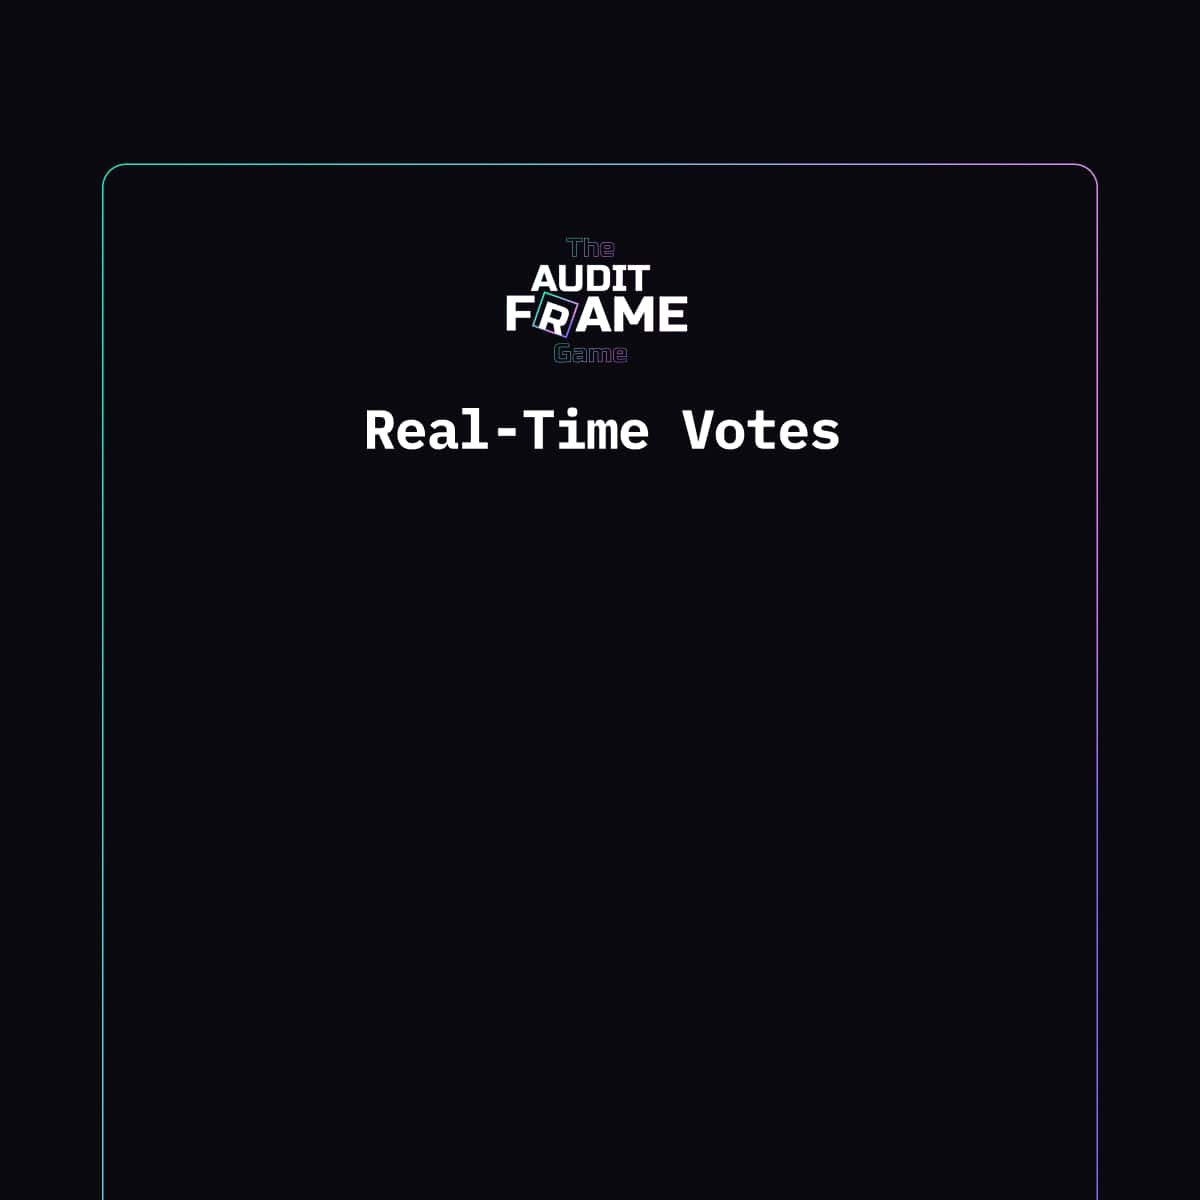
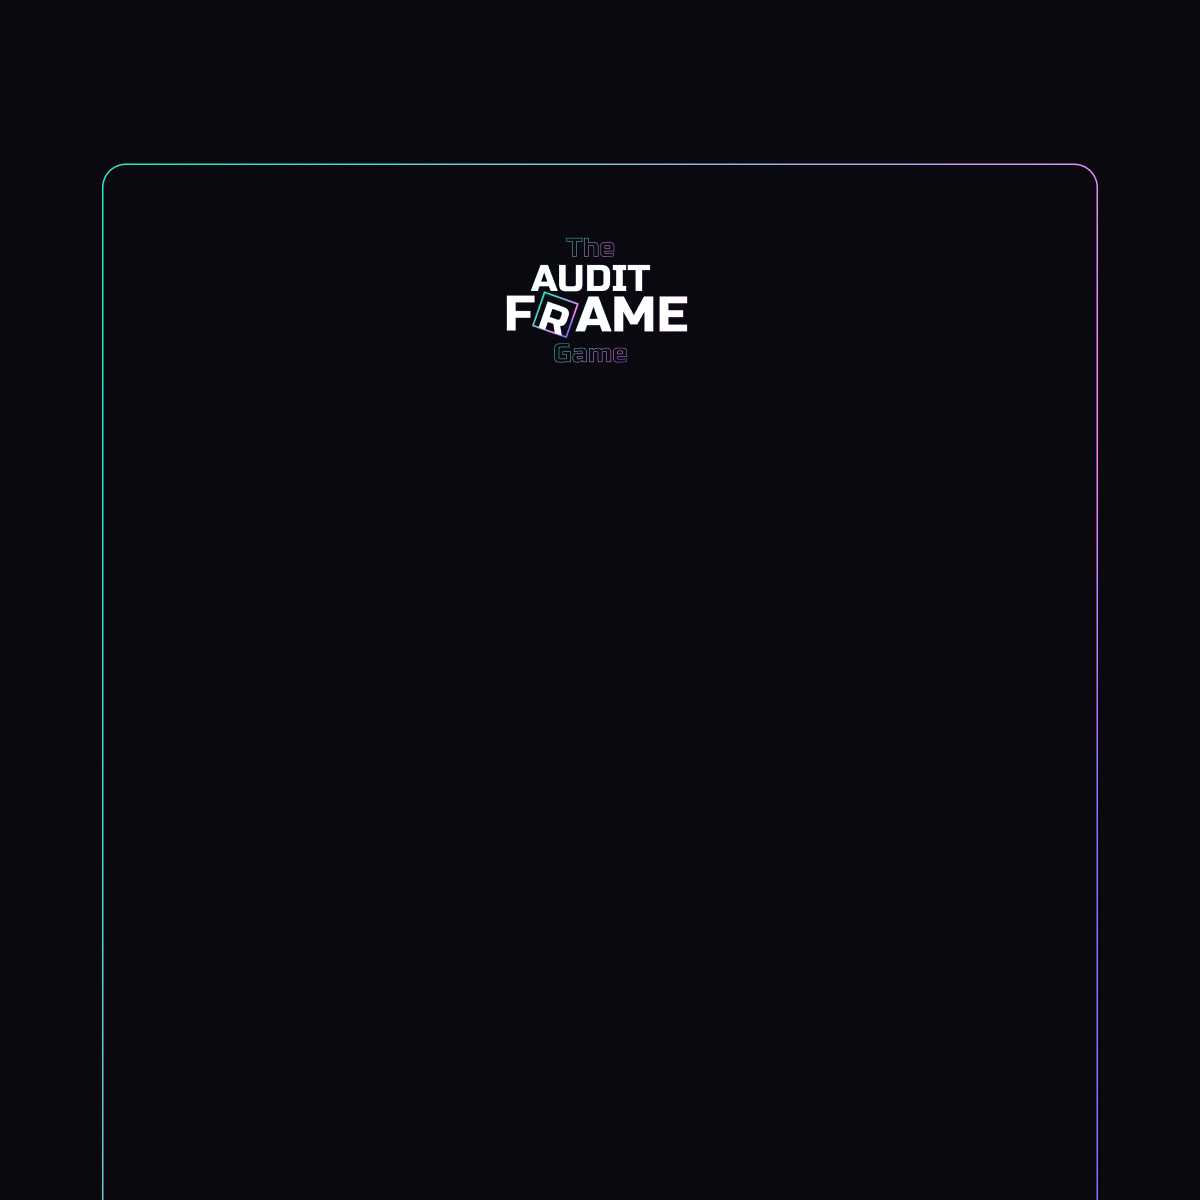
new changes and improvements

Changed region(s): [[0.3083, 0.3392, 0.7092, 0.4008], [0.4317, 0.2158, 0.5242, 0.3083]]

diff --git a/src/app/api/start/route.ts b/src/app/api/start/route.ts
@@ -8,6 +8,7 @@ import { getEditSessionIdOrAddressFromMessage } from "@/helpers/getEditSessionId
 import { getEditSessionByAddressOrId } from "@/data/requests/getEditSessionByAddressOrId";
 import { getAllProfiles } from "@/data/requests/getAllProfiles";
 import { IHackerProfile } from "@hats.finance/shared";
+import { getCompetitionStatus } from "@/helpers/getCompetitionStatus";
 
 export async function POST(req: NextRequest): Promise<Response> {
   const body: FrameRequest = await req.json();
@@ -87,6 +88,7 @@ export async function POST(req: NextRequest): Promise<Response> {
   if (goToResults) {
     const editSessionIdOrAddress = getEditSessionIdOrAddressFromMessage(message);
     const competitionData = await getEditSessionByAddressOrId(editSessionIdOrAddress);
+    const competitionStatus = getCompetitionStatus(competitionData);
     const allOptedInUsers = competitionData?.optedInUsers ?? [];
     const allFarcasterVoters = competitionData?.farcasterVoters ?? [];
     const allProfiles = await getAllProfiles();
@@ -112,6 +114,7 @@ export async function POST(req: NextRequest): Promise<Response> {
     hackersProfiles.sort((a, b) => (b.votedPoints ?? 0) - (a.votedPoints ?? 0));
 
     const profilesToSend = encodeURIComponent(JSON.stringify(hackersProfiles.slice(0, 5)));
+    const votingsEnded = ["in-progress", "ended"].includes(competitionStatus);
 
     return new NextResponse(`
     <!DOCTYPE html>
@@ -119,8 +122,8 @@ export async function POST(req: NextRequest): Promise<Response> {
         <head>
             <meta property="fc:frame" content="vNext" />
             <meta property="fc:frame:image:aspect_ratio" content="1:1" />
-            <meta property="fc:frame:image" content="${config.hostURL}/game/results?user=${userToSend}&results=${profilesToSend}" />
-            <meta property="og:image" content="${config.hostURL}/game/results?user=${userToSend}&results=${profilesToSend}" />
+            <meta property="fc:frame:image" content="${config.hostURL}/game/results?user=${userToSend}&results=${profilesToSend}&votingsEnded=${votingsEnded}" />
+            <meta property="og:image" content="${config.hostURL}/game/results?user=${userToSend}&results=${profilesToSend}&votingsEnded=${votingsEnded}" />
             <meta property="fc:frame:button:1" content="What's next ➡" />
             <meta property="fc:frame:post_url" content="${config.hostURL}/api/done" />
         </head>

diff --git a/src/app/api/results/route.ts b/src/app/api/results/route.ts
@@ -7,6 +7,7 @@ import { getEditSessionByAddressOrId } from "@/data/requests/getEditSessionByAdd
 import { IHackerProfile } from "@hats.finance/shared";
 import { getAllProfiles } from "@/data/requests/getAllProfiles";
 import { IProfileData } from "@/data/models";
+import { getCompetitionStatus } from "@/helpers/getCompetitionStatus";
 
 export async function POST(req: NextRequest): Promise<Response> {
   const body: FrameRequest = await req.json();
@@ -24,6 +25,7 @@ export async function POST(req: NextRequest): Promise<Response> {
   // Get edit session
   const editSessionIdOrAddress = getEditSessionIdOrAddressFromMessage(message);
   const competitionData = await getEditSessionByAddressOrId(editSessionIdOrAddress);
+  const competitionStatus = getCompetitionStatus(competitionData);
   const allOptedInUsers = competitionData?.optedInUsers ?? [];
   const allFarcasterVoters = competitionData?.farcasterVoters ?? [];
   const allProfiles = await getAllProfiles();
@@ -49,6 +51,7 @@ export async function POST(req: NextRequest): Promise<Response> {
   hackersProfiles.sort((a, b) => (b.votedPoints ?? 0) - (a.votedPoints ?? 0));
 
   const profilesToSend = encodeURIComponent(JSON.stringify(hackersProfiles.slice(0, 5)));
+  const votingsEnded = ["in-progress", "ended"].includes(competitionStatus);
 
   return new NextResponse(`
   <!DOCTYPE html>
@@ -56,8 +59,8 @@ export async function POST(req: NextRequest): Promise<Response> {
       <head>
           <meta property="fc:frame" content="vNext" />
           <meta property="fc:frame:image:aspect_ratio" content="1:1" />
-          <meta property="fc:frame:image" content="${config.hostURL}/game/results?user=${userToSend}&results=${profilesToSend}" />
-          <meta property="og:image" content="${config.hostURL}/game/results?user=${userToSend}&results=${profilesToSend}" />
+          <meta property="fc:frame:image" content="${config.hostURL}/game/results?user=${userToSend}&results=${profilesToSend}&votingsEnded=${votingsEnded}" />
+          <meta property="og:image" content="${config.hostURL}/game/results?user=${userToSend}&results=${profilesToSend}&votingsEnded=${votingsEnded}" />
           <meta property="fc:frame:button:1" content="What's next ➡" />
           <meta property="fc:frame:post_url" content="${config.hostURL}/api/done" />
       </head>

diff --git a/src/app/game/login/route.tsx b/src/app/game/login/route.tsx
@@ -34,15 +34,17 @@ export async function GET(request: Request) {
               flexDirection: "column",
               alignItems: "center",
               position: "absolute",
-              top: "8%",
+              bottom: "11%",
               left: "50%",
               transform: "translateX(-50%)",
             }}>
+            <p style={{ color: "white", fontSize: "24px", marginBottom: -5 }}>Next up</p>
             <div style={{ display: "flex", alignItems: "center" }}>
-              <img src={ipfsTransformUri(competition?.logo)} alt={competition?.name} width={100} height={100} />
-              {/* <img src={`${config.hostURL}/assets/images/placeholder.svg`} alt={competition?.name} width={100} height={100} /> */}
+              <img src={ipfsTransformUri(competition?.logo)} alt={competition?.name} width={70} height={70} />
+              {/* <img src={`${config.hostURL}/assets/images/placeholder.svg`} alt={competition?.name} width={70} height={70} /> */}
               <p style={{ color: "white", fontSize: "28px", marginLeft: "20px" }}>{competition?.name}</p>
             </div>
+            <p style={{ color: "white", fontSize: "30px", fontFamily: "IBMPlexSansBold", marginTop: 8 }}>Audit competition</p>
           </div>
         )}
       </div>

diff --git a/src/app/api/done/route.ts b/src/app/api/done/route.ts
@@ -4,6 +4,7 @@ import { config } from "@/config/config";
 import { getUserFromMessage } from "@/helpers/getUserFromMessage";
 import { getEditSessionIdOrAddressFromMessage } from "@/helpers/getEditSessionIdOrAddressFromMessage";
 import { getEditSessionByAddressOrId } from "@/data/requests/getEditSessionByAddressOrId";
+import { WARPCAST_CHANNEL } from "@/consts/urls";
 
 export async function POST(req: NextRequest): Promise<Response> {
   const body: FrameRequest = await req.json();
@@ -33,7 +34,7 @@ export async function POST(req: NextRequest): Promise<Response> {
           <meta property="og:image" content="${config.hostURL}/game/done?user=${userToSend}&voters=${voters}" />
           <meta property="fc:frame:button:1" content="Join the Audit F(r)ame Game Channel" />
           <meta property="fc:frame:button:1:action" content="link" />
-          <meta property="fc:frame:button:1:target" content="https://warpcast.com/~/channel/auditgames" />
+          <meta property="fc:frame:button:1:target" content="${WARPCAST_CHANNEL}" />
       </head>
   </html>
 `);

diff --git a/src/app/game/results/route.tsx b/src/app/game/results/route.tsx
@@ -19,6 +19,8 @@ export async function GET(request: Request) {
 
   const { searchParams } = new URL(request.url);
 
+  const votingsEnded = JSON.parse(searchParams.get("votingsEnded") || "false") as boolean;
+
   const resultsData = searchParams.get("results");
   const results = JSON.parse(resultsData || "[]") as IProfileData[];
 
@@ -35,6 +37,20 @@ export async function GET(request: Request) {
         {/* POINTS */}
         <p style={{ color: "white", fontSize: "30px", position: "absolute", top: 10, right: 40 }}>
           HATs points: {farcasterUser?.hatsPoints ?? 0}
+        </p>
+
+        <p
+          style={{
+            display: "flex",
+            justifyContent: "center",
+            width: "100%",
+            fontSize: "50px",
+            color: "white",
+            position: "absolute",
+            top: "31%",
+            fontFamily: "IBMPlexSansBold",
+          }}>
+          {votingsEnded ? "Votings Ended" : "Real-Time Votes"}
         </p>
 
         {/* RESULTS */}

diff --git a/src/consts/urls.ts b/src/consts/urls.ts
@@ -1,2 +1,3 @@
 // export const IPFS_PREFIX = "https://ipfs2.hats.finance/ipfs";
 export const IPFS_PREFIX = "https://hats-finance.mypinata.cloud/ipfs";
+export const WARPCAST_CHANNEL = "https://warpcast.com/~/channel/auditgames";
